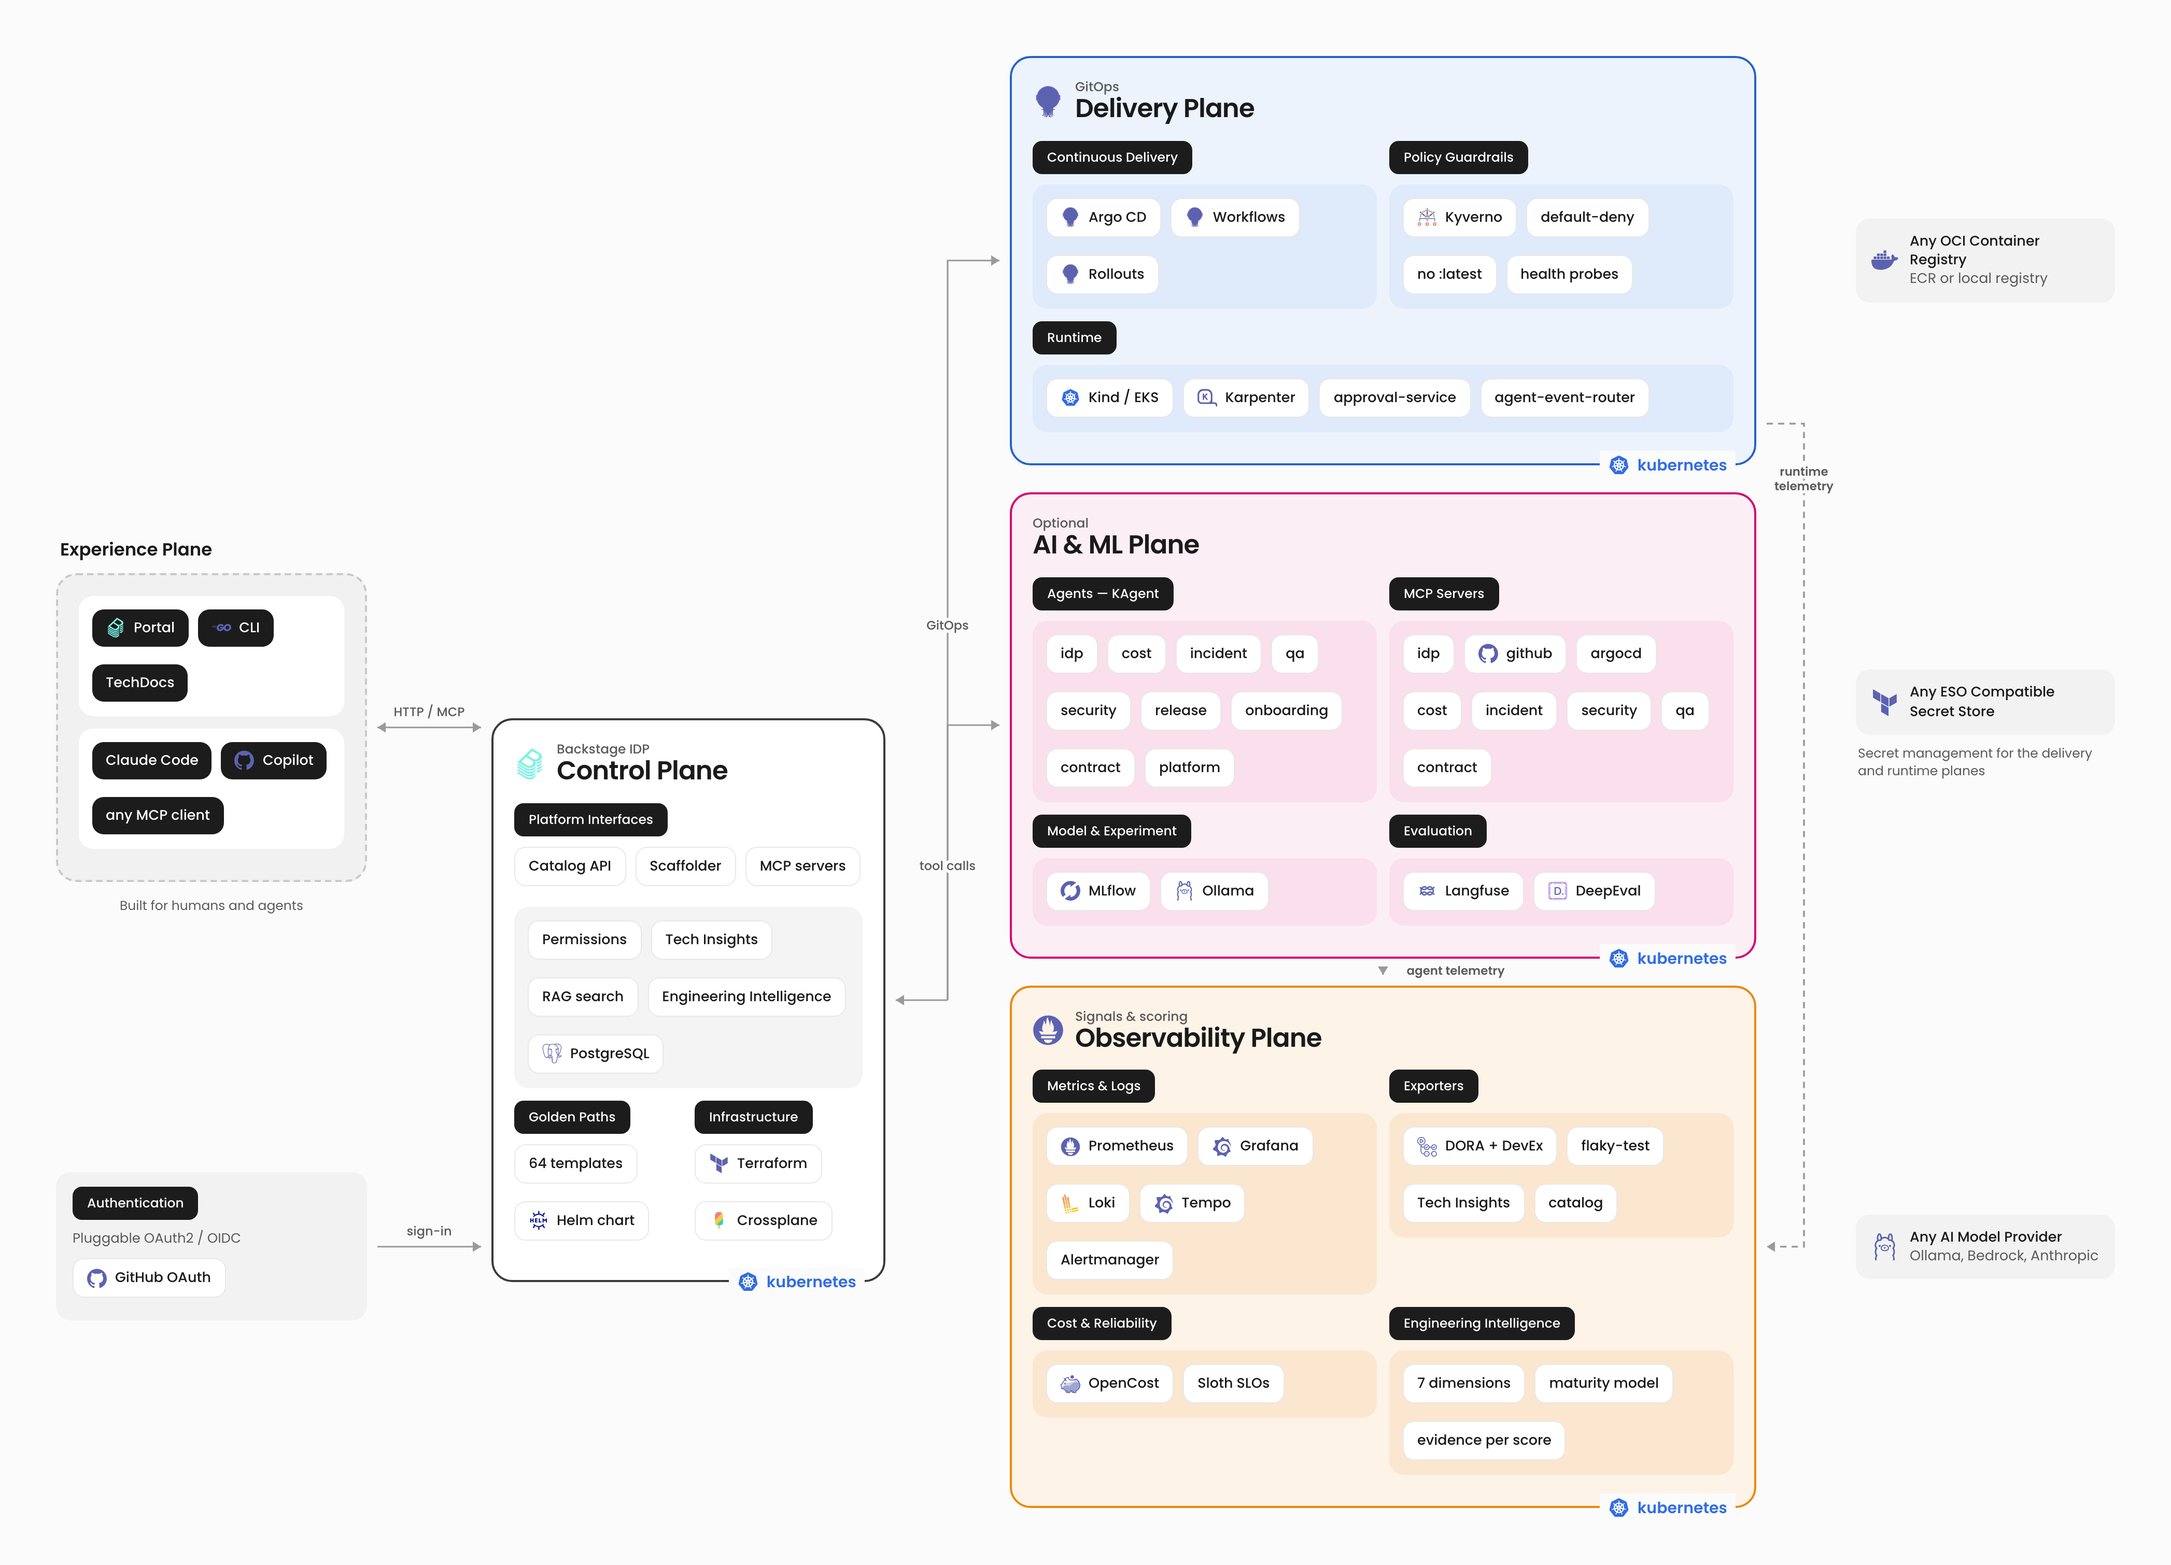
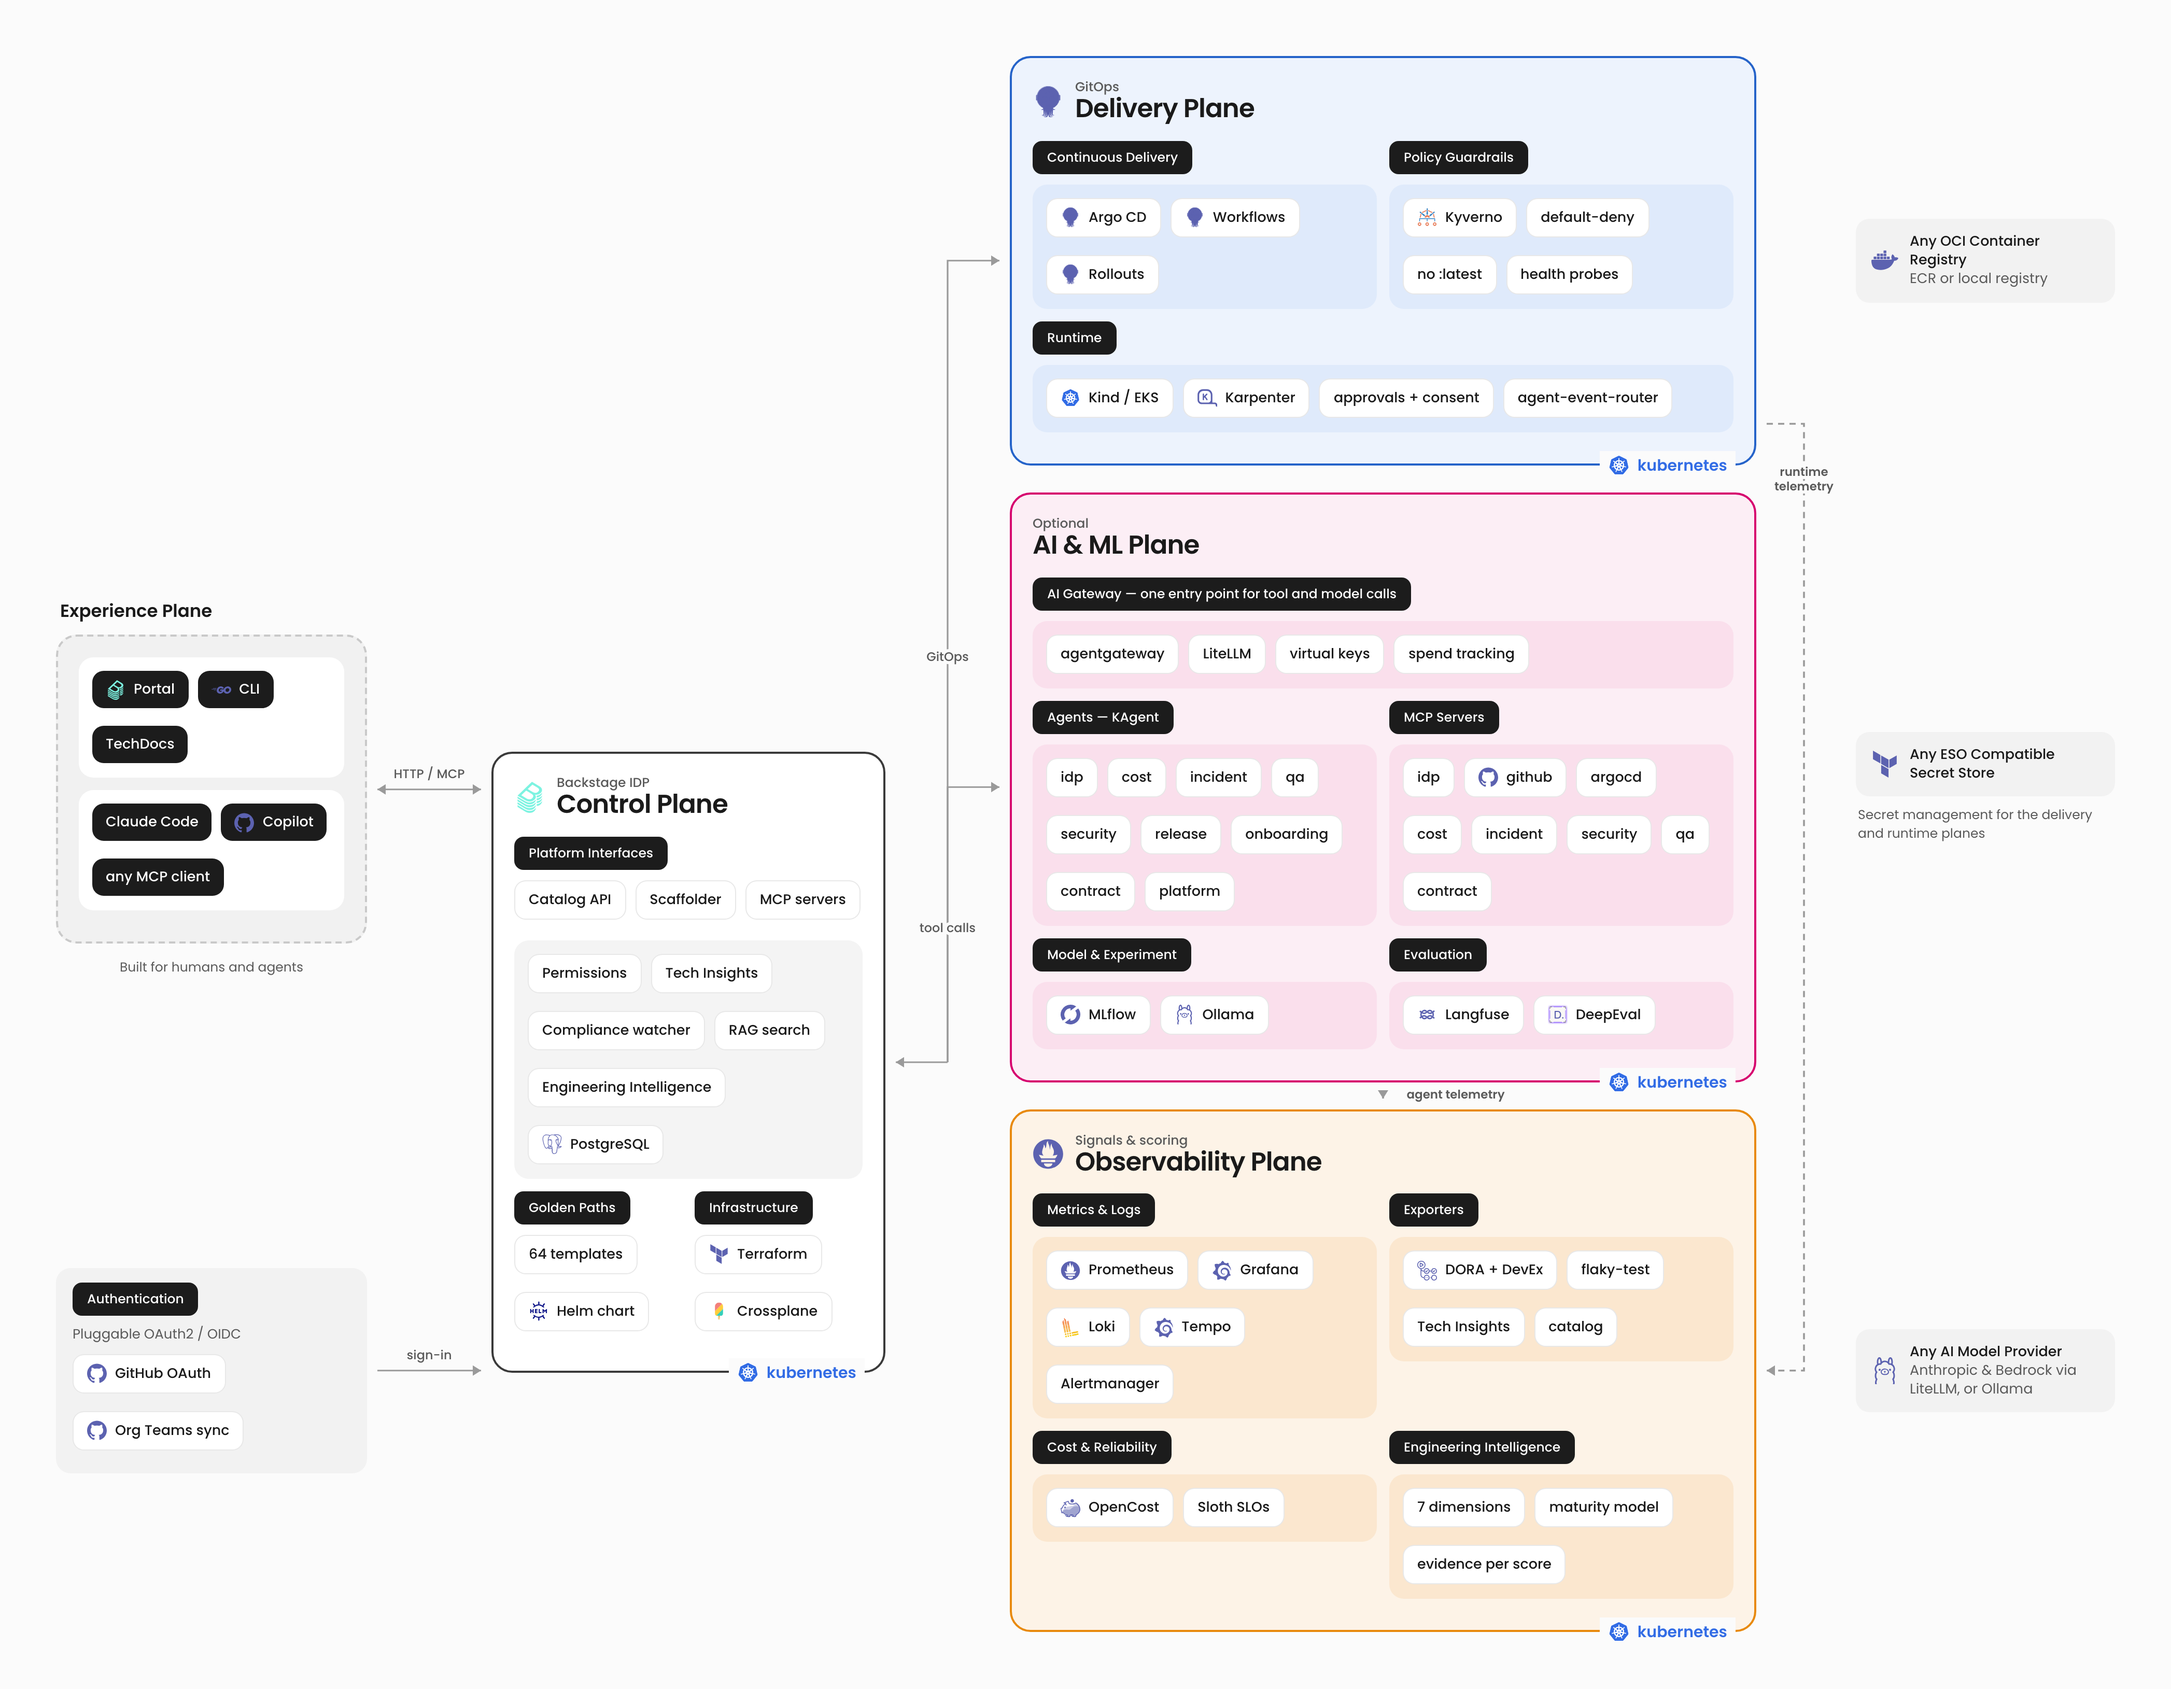
docs: update the platform planes diagram and README for recent changes (#523)
Diagram (docs/diagrams/platform-planes.html, re-rendered to
docs/assets/platform-planes.png with the existing build script):
- AI & ML plane: new AI Gateway row (agentgateway, LiteLLM, virtual keys,
  spend tracking) — the gateway every tool and model call goes through
  was missing entirely.
- Control plane: Compliance watcher next to Tech Insights.
- Delivery plane: approval-service now reads "approvals + consent".
- Authentication: GitHub Org Teams sync next to GitHub OAuth.
- Model provider aside: Anthropic & Bedrock via LiteLLM, or Ollama.

README:
- Platform Planes: a one-line summary per plane, matching the diagram,
  and a pointer to where the diagram is generated.
- Recently shipped: the ArgoCD token fix (#522).
- Known issues (local): what to do when the ArgoCD page shows demo data.

diff --git a/docs/diagrams/platform-planes.html b/docs/diagrams/platform-planes.html
@@ -135,6 +135,7 @@
         <div class="row">
           <span class="card">Permissions</span>
           <span class="card">Tech Insights</span>
+          <span class="card">Compliance watcher</span>
           <span class="card">RAG search</span>
           <span class="card">Engineering Intelligence</span>
           <span class="card">{{si-postgresql}}PostgreSQL</span>
@@ -196,7 +197,7 @@
         <div class="row">
           <span class="card">{{kubernetes}}Kind / EKS</span>
           <span class="card">{{karpenter}}Karpenter</span>
-          <span class="card">approval-service</span>
+          <span class="card">approvals + consent</span>
           <span class="card">agent-event-router</span>
         </div>
       </div>
@@ -206,6 +207,15 @@
     <section class="plane p-ai">
       <div class="plane-title">
         <span class="txt"><small>Optional</small><strong>AI &amp; ML Plane</strong></span>
+      </div>
+      <span class="pill">AI Gateway — one entry point for tool and model calls</span>
+      <div class="module">
+        <div class="row">
+          <span class="card">agentgateway</span>
+          <span class="card">LiteLLM</span>
+          <span class="card">virtual keys</span>
+          <span class="card">spend tracking</span>
+        </div>
       </div>
       <div class="cols">
         <div>
@@ -313,7 +323,10 @@
       <div class="authbox">
         <span class="pill" style="margin-bottom:8px;">Authentication</span>
         <div class="t">Pluggable OAuth2 / OIDC</div>
-        <span class="card">{{si-github}}GitHub OAuth</span>
+        <div class="row">
+          <span class="card">{{si-github}}GitHub OAuth</span>
+          <span class="card">{{si-github}}Org Teams sync</span>
+        </div>
       </div>
     </div>
 
@@ -325,7 +338,7 @@
       <p class="aside-note">Secret management for the delivery and runtime planes</p>
     </div>
     <div class="a3">
-      <div class="aside">{{si-ollama}}<span>Any AI Model Provider<br><span style="color:var(--ink-2);font-weight:400;">Ollama, Bedrock, Anthropic</span></span></div>
+      <div class="aside">{{si-ollama}}<span>Any AI Model Provider<br><span style="color:var(--ink-2);font-weight:400;">Anthropic &amp; Bedrock via LiteLLM, or Ollama</span></span></div>
     </div>
 
   </div>

diff --git a/README.md b/README.md
@@ -192,6 +192,16 @@ view: five planes, each independently installable. The core IDP runs without the
 Observability planes, and the AI plane holds no privilege the planes above it do not already
 grant.
 
+| Plane | What's in it |
+|---|---|
+| **Experience** | The Backstage portal, the `idp` CLI and TechDocs for people; Claude Code, Copilot or any MCP client for agents. Sign-in is GitHub OAuth, with catalog groups synced from GitHub Org Teams |
+| **Control** | Backstage: catalog, scaffolder (64 templates), Tech Insights scorecard plus the compliance watcher, RAG search, Engineering Intelligence; Terraform and Crossplane for infrastructure |
+| **Delivery** | Argo CD, Workflows and Rollouts; Kyverno guardrails; Kind or EKS with Karpenter; the approval service (human approvals + user consent for agent actions) and the agent event router |
+| **AI & ML** *(optional)* | The **AI Gateway** is the single entry point: agentgateway routes every MCP tool call and every model call, and LiteLLM behind it serves Anthropic and Bedrock with virtual keys and spend tracking. Behind it: 9 KAgent agents, 8 MCP servers, MLflow, Ollama, Langfuse and DeepEval |
+| **Observability** *(optional)* | Prometheus, Grafana, Loki, Tempo, Alertmanager; DORA, flaky-test and Tech Insights exporters; OpenCost and Sloth SLOs; Engineering Intelligence scoring |
+
+The diagram is generated from [`docs/diagrams/platform-planes.html`](docs/diagrams/README.md), so update it there when a plane changes.
+
 ### AWS Architecture
 
 ![AWS Architecture](docs/assets/aws-architecture.jpg)
@@ -599,6 +609,7 @@ behaviour in [integrations](docs/engineering-intelligence/integrations.md).
 - **One scorecard predicate package** — `@internal/scorecard-core` is now shared by the entity-page tab and the Tech Insights retriever, which had drifted on three AI checks.
 - **Infra templates register their Resource entity** — the 8 PR-based infra templates now tell you how to register the generated `catalog-info.yaml` after merge, and write into scoped directories instead of the repo root.
 - **GitHub Org Teams as the identity source** — catalog groups and sign-in come from GitHub Teams, and new service repos default to the Teams org ([ADR-0004](docs/design/adr-0004-identity-and-access.md)).
+- **ArgoCD page no longer falls back to demo data** — Backstage now uses a non-expiring token for ArgoCD's `backstage` account (read + sync) instead of a 24h admin session, and the bootstrap never writes an empty token.
 - **24h local Prometheus retention** (was 6h), so local trend views have more than a few hours of history.
 - **No more AI Assistant hangs** — every KAgent agent is now told not to call `ask_user`, which the chat UI cannot answer.
 
@@ -638,6 +649,7 @@ Multi-team production hardening and self-hosted small-model serving. See the boa
 | `/kubernetes` standalone page crashes | By design — disabled in local config. Use the Kubernetes tab on any catalog entity instead |
 | `Cost Overview` shows "OpenCost returned 500" | Wait for the OpenCost pod: `kubectl get pods -n opencost` |
 | Catalog empty on first load | Fixed: `dangerouslyDisableDefaultAuthPolicy: true` prevents a 401 flash before sign-in |
+| ArgoCD page shows "📊 Demo data — ArgoCD proxy returned an error" | `ARGOCD_AUTH_TOKEN` is missing, usually because the cluster was recreated. Run `./scripts/bootstrap-local.sh --install-argocd` (mints a token for the `backstage` account), then `--start-backstage` to recreate the container |
 | `ImagePullBackOff` after scaffold | Image hasn't been pushed to the local registry yet. See [docs/runbooks/image-pull-backoff.md](docs/runbooks/image-pull-backoff.md) |
 | Backstage K8s tab shows "unknown" for CPU/memory | metrics-server not running (auto-installed by `bootstrap-local.sh`) |
 
